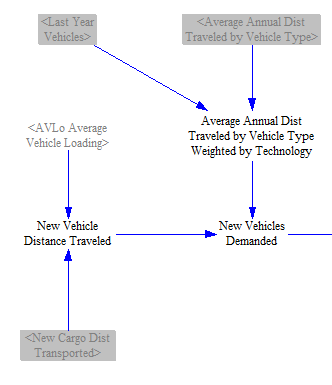
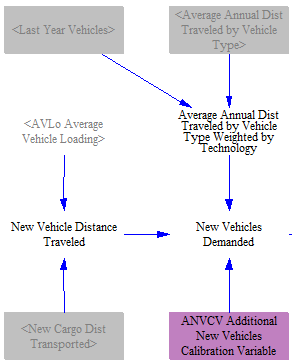
transport-main docs after review of claude edits

diff --git a/docs/transportation-sector-main.md b/docs/transportation-sector-main.md
@@ -57,12 +57,11 @@ We also calculate how policy-driven changes in the cost of transportation servic
 
 The model structure for the fuel cost per unit cargo distance in the policy scenario is shown in the screenshot below. The calculation for the BAU scenario mirrows this same structure, but using BAU versions of each variable. In both sets of calculations, we institute a one-year time delay to avoid circularity. For this reason, we need to read in input data for fuel economy of each vehicle type and technology in the start year (defined as one year before the first simulated year in the model). We then combine last year's transportation sector fuel used with the cost of transportation fuels used by each technology to determine a weighted average fuel cost per unit energy by vehicle technology. We then divide that quantity by the fleet average fuel economy of each vehicle type and technology to determine the fuel cost per unit cargo distance.
 
-For non-electricity transportation fuels, the fuel cost per unit energy is the same regardless of which type of vehicle uses it. Electricity is a special case: the price an EV owner effectively pays per unit of energy depends on whether they charge at a private (home or depot) charger or at a public charger, and public charging is generally more expensive per unit energy than private charging. The model therefore tracks an electricity fuel cost per unit energy by vehicle and cargo type, blending the underlying electricity price with a public-versus-private charging mix and a 'Ratio of Public Charging Costs to Private Charging Costs' input. The private-charging share is set to one for vehicle types with dedicated depot charging (transit buses, freight rail, etc.); for passenger LDVs it is determined endogenously from a lookup against the BEV share of the existing passenger LDV fleet (sourced from a study of home charging access in the United States), so that as more EV households charge at home or in apartment garages the effective electricity price drifts toward the lower private rate.
-
 ![fuel cost per unit cargo distance](/img/transportation-sector-main-FuelCostPerCargoDist.png)
 
-<!-- TODO: verify framing of the BEV-share → effective electricity price feedback. Because the public/private charging mix for passenger LDVs is determined by the previous year's BEV stock share, growth in BEVs lowers the effective electricity price faced by the next round of buyers, which in turn (via lower fuel cost per unit cargo distance) feeds back into the vehicle choice function. Confirm this characterization is consistent with the intended model behavior. -->
+For non-electricity transportation fuels, the fuel cost per unit energy is the same regardless of which type of vehicle uses it. Electricity is a special case: the price an EV owner effectively pays per unit of energy depends on whether they charge at a private (home or depot) charger or at a public charger, and public charging is generally more expensive per unit energy than private charging. The model therefore tracks an electricity fuel cost per unit energy by vehicle and cargo type, blending the underlying electricity price with a public-versus-private charging mix and a 'Ratio of Public Charging Costs to Private Charging Costs' input. The private-charging share is set to one for vehicle types with dedicated depot charging (transit buses, freight rail, etc.); for passenger LDVs it is determined endogenously from a lookup against the BEV share of the existing passenger LDV fleet (sourced from a study of home charging access in the United States), so that as more EV households charge at home or in apartment garages the effective electricity price drifts toward the lower private rate.
 
+![EV public/private charging ratio](/img/transportation-sector-main-PublicPrivateCharging.png)
 
 We compare this figure with its corresponding BAU variable to determine the percentage change in fuel cost per unit cargo-distance that is attributable to the policies. Thus, policies that increase fuel cost will tend to make transporting cargo-distance more expensive, and policies that improve fuel economy will tend to make it less expensive. Literature on fuel economy improvements often discusses a "rebound effect," referring to the tendency to increase driving in response to the fuel savings that come from increased fuel efficiency. However, if increased fuel price is a driver of the increase in fuel economy, the "rebound" could be positive or negative, depending on whether the increased cost outweighs the increased efficiency, or vice versa. The 'Elasticity of Demand for Vehicle Use wrt Fuel Cost' is multiplied by the percentage change in fuel cost per unit cargo-distance to determine whether usage is increased or decreased, and by how much, for each vehicle type. We apply these changes to the the cargo distance after TDM effects to find the cargo distance transported in the policy case:
 
@@ -112,7 +111,7 @@ All R&D policies are defined as being additional to any R&D required to comply w
 
 ## Calculating NPV of Lifetime Vehicle Cost
 
-In order to decide which vehicle technologies will be selected by purchasers to fill the need for new cargo-distance from a given vehicle type in the current year, the model needs to know the price of each vehicle technology as seen by purchasers.  There are three components to this price: the upfront cost of the vehicle, the lifetime operation and maintenance costs (including fuel) for the vehicle (appropriately discounted), and a set of shadow costs applied to electric passenger light-duty vehicles to represent perceived non-monetary barriers (range anxiety, charging-station availability, and broader consumer preference factors).  This section of the model calculates these costs.
+In order to decide which vehicle technologies will be selected by purchasers to fill the need for new cargo-distance from a given vehicle type in the current year, the model needs to know the price of each vehicle technology as seen by purchasers.  There are three components to this price: the upfront cost of the vehicle; the discounted lifetime cost of operating, maintaining, and -- for passenger-LDV battery electric vehicles (BEVs) -- installing home charging equipment for the vehicle; and a set of shadow costs applied to electric passenger light-duty vehicles to represent perceived non-monetary barriers (range anxiety, charging-station availability, and broader consumer preference factors).  This section of the model calculates these costs and combines them into a single NPV of Lifetime Vehicle Cost, which is then converted to a per-mile cost for use in the vehicle choice function.
 
 ### NPV of Lifetime Annual Expenditures
 
@@ -126,14 +125,11 @@ Next, we convert this to fuel cost per unit vehicle-distance (for example, vehic
 
 We then add in annual expected vehicle maintenance, insurance, parking, and licensing, registration, and property tax costs. Vehicle maintenance costs are differentiated by vehicle type and technology (as the cost to maintain an electric vs. a gasoline car, for example, can vary significantly), and other costs are differentiated by vehicle type only. These values are all read in as input data.
 
-Finally, we convert this stream of expected fuel and other operation and maintenance expenditures over the vehicle's lifetime into a net present value (NPV) value, using an average vehicle ownership period and a discount rate adopted by vehicle buyers.  We use an ownership period rather than vehicle lifetime as some vehicle types, for example freight trucks, are typically retained by the original buyer for a period much shorter than the vehicle's lifetime.  A high discount rate is generally appropriate here, as vehicle buyers tend to undervalue future fuel savings (or costs) in their calculus of what vehicle to buy today.  This is one of three factors that contributes to the NPV of Lifetime Vehicle Cost:
+For passenger light-duty BEVs, we also add a one-time charging-equipment installation cost. Most EV buyers who do not already have a Level 2 home charger purchase and install one. The model multiplies a per-installation cost by the share of new passenger LDV EV purchases requiring an installation. That share is set to one minus the BEV share of the existing passenger LDV fleet, on the assumption that BEV buyers in households that already include a BEV typically already have a working home charger. The resulting installation cost adds to the NPV of Lifetime Annual Expenditures only for passenger LDV BEVs and is zero for all other vehicle/cargo/technology combinations.
+
+Finally, we convert this stream of expected fuel and other expenditures over the vehicle's lifetime into a net present value (NPV) value, using an average vehicle ownership period and a discount rate adopted by vehicle buyers.  We use an ownership period rather than vehicle lifetime as some vehicle types, for example freight trucks, are typically retained by the original buyer for a period much shorter than the vehicle's lifetime.  A high discount rate is generally appropriate here, as vehicle buyers tend to undervalue future fuel savings (or costs) in their calculus of what vehicle to buy today.  This is one of three factors that contributes to the NPV of Lifetime Vehicle Cost:
 
 ![net present value of fuel costs over vehicle lifetime](/img/transportation-sector-main-NPVFuelCost.png)
-
-For passenger light-duty battery electric vehicles, we also add a one-time charging-equipment installation cost. New EV buyers who do not already have a home charger generally need to purchase and install one. The model multiplies a per-installation cost (the 'EV Charger Installation Costs' input, sourced from a study on the levelized cost of charging electric vehicles in the United States) by the share of new passenger LDV EV purchases requiring an installation. That share is set to one minus the BEV share of the existing passenger LDV fleet, on the assumption that BEV buyers in households that already include a BEV typically already have a working home charger. The resulting installation cost adds to the NPV of Lifetime Annual Expenditures only for passenger LDV BEVs and is zero for all other vehicle/cargo/technology combinations.
-
-<!-- TODO: SCREENSHOT NEEDED: View "Transportation - Main" in EPS.mdl, showing the new structure that calculates Added Cost for Passenger LDV EV EVSE Equipment from EVCIC EV Charger Installation Costs and the Share of New Passenger LDV EV Purchases Requiring Home Charger Installations, and feeds into the NPV of Lifetime Annual Expenditures. Suggested filename: transportation-sector-main-EVSECost_4.0.5.png -->
-
 
 ### New Vehicle Price
 
@@ -146,8 +142,6 @@ Subsequently, the model takes into account any subsidies for vehicle batteries. 
 ![battery production subsidy](/img/transportation-sector-main-EndogenousEVLearning.png)
 
 Next, the post-subsidy battery manufacturing price is converted to a retail-price-equivalent (RPE) basis by multiplying by a 'Battery Pack Markup' factor. This markup follows NREL ATB methodology, applying a retail price equivalent factor of 1.5 for light-duty vehicles and 1.2 for medium- and heavy-duty vehicles to estimate retail prices from manufacturing costs.
-
-<!-- TODO: screenshot may need replacement — view shown is from 4.0.4 and does not depict the Battery Pack Markup multiplier added in 4.0.5. -->
 
 Lastly, the marked-up battery cost is converted from $/kWh to $/vehicle by multiplying by the battery capacity of each vehicle type, then added to the non-battery portion of new vehicle price. (reminder: for non-battery-equipped vehicles, this input variable is the full cost of the vehicle)
 
@@ -173,25 +167,30 @@ The third component of the NPV of Lifetime Vehicle Cost is a set of shadow costs
 * **Charging availability shadow cost.** Reflects the relative scarcity of EV chargers compared to gas stations. Calculated as a logarithmic function of the ratio of the projected number of EV chargers to the number of gas pumps; falls toward zero as charger deployment approaches parity with gas pump deployment. Affected by the EV Charger Deployment policy lever.
 * **Consumer preference shadow cost.** Reflects broader non-monetary preference factors beyond range and charger availability — for example, perceptions of unfamiliar technology and concerns about resale value. Calibrated against historical light-duty vehicle sales data (see [Forsythe et al., PNAS 2023](https://www.pnas.org/doi/10.1073/pnas.2219396120) and the U.S. Energy Information Administration Annual Energy Outlook). The shadow cost decays as the BEV share of the existing passenger LDV fleet grows: it is multiplied by `1 − BEV share of last year's passenger LDV fleet`, on the assumption that as more BEVs reach the road, the perception barriers represented by this shadow cost diminish.
 
-Finally, the three shadow costs are summed with the new vehicle price (and the NPV of Lifetime Annual Expenditures, which already includes the EVSE installation cost described above) to produce the NPV of Lifetime Vehicle Cost variable used in the vehicle choice function:
+The three shadow costs are summed with the new vehicle price and the NPV of Lifetime Annual Expenditures (the latter already including the EVSE installation cost described above) to produce the NPV of Lifetime Vehicle Cost variable:
 
-<!-- TODO: screenshot may need replacement — view shown is from 4.0.4 and shows only Range Anxiety + Charging Availability shadow costs. The 4.0.5 view also includes Consumer Preference Shadow Cost (BCPSC) driven by last year's BEV stock share. -->
 ![effect of range anxiety, charging availability, and consumer preference shadow costs on perceived vehicle price](/img/transportation-sector-main-RngAnxiety.png)
+
+### New Vehicle Cost per Mile
+
+The vehicle choice function described in the next section compares technologies in cost-per-mile units rather than in total NPV terms, so that vehicles with different annual usage patterns and different ownership periods can be compared on a like-for-like basis. We compute the New Vehicle Cost per Mile by dividing the NPV of Lifetime Vehicle Cost by the product of the average annual distance traveled, vehicle loading, and ownership period for each vehicle type, cargo type, and technology. This per-mile metric is used internally by the vehicle choice function; it is not exposed in cash flow tracking or in outputs outside the transportation sector.
 
 ## Calculating Number of New Vehicles
 
-Now that we know the NPV of Lifetime Vehicle Cost for each vehicle technology, we have the information we need to determine both the number of new vehicles and what technologies will be selected. We begin by converting new cargo-distance transported to new vehicles demanded, using vehicle loading and annual average distance traveled by vehicle type (which were also used earlier, to find annual fuel use per vehicle). In some regions, changing economics and political factors cause the resulting historical-year sales to drift from observed values, so we apply an additive calibration adjustment, the 'Additional New Vehicles Calibration Variable,' to the new vehicles demanded by vehicle and cargo type. By construction the calibration values across the historical time series sum to zero for each vehicle/cargo combination, so the adjustment shifts sales between years rather than changing the cumulative number of vehicles introduced.
+Now that we know the New Vehicle Cost per Mile for each vehicle technology, we have the information we need to determine both the number of new vehicles and what technologies will be selected.
 
-<!-- TODO: screenshot may need replacement — view shown is from 4.0.4 and does not depict the new ANVCV calibration adjustment in the New Vehicles Demanded equation -->
+We begin by converting new cargo-distance transported to new vehicles demanded, using vehicle loading and annual average distance traveled by vehicle type (which were both used earlier to find annual fuel use per vehicle).
+
+In some regions, changing economics and political factors cause the resulting historical-year sales to drift from observed values. We therefore include an optional, additive calibration adjustment, the 'Additional New Vehicles Calibration Variable,' to the new vehicles demanded by vehicle and cargo type. By construction, the calibration values across the historical time series sum to zero for each vehicle/cargo combination, so the adjustment shifts sales between years rather than changing the cumulative number of vehicles introduced.
+
 ![new vehicles demanded](/img/transportation-sector-main-NewVehDemanded.png)
 
 To determine what technologies of vehicle purchasers will buy (e.g. how many of the new passenger LDVs will be battery electric, how many will use a gasoline engine, etc.), we must allocate the demand by technology. We therefore need to implement a vehicle choice function, which we want to base on cost. However, we don't want to simply allocate all new vehicle demand to the cheapest option. While we track average vehicle costs in the model, in reality each vehicle technology spans a range of costs. The image below represents a simplified example of prices for gasoline engine and battery electric vehicles, where each technology has its own normal distribution with an unique midpoint on the cost axis (X-axis). The Y-axis is the quantity of vehicles of a given technology that can be sold in this year at a given cost. The volume inside these curves corresponds to a quantity of vehicles sold: cost (X) multiplied by quantity per unit cost (Y). We know the total amount of vehicles we need to sell, which is the volume under a portion of the black “Total” curve. Accordingly, demand is satisfied from left to right on the cost axis, filling in the volume under each individual vehicle technology's bell curve, until a total amount of volume has been filled in equal to the quantity of new vehicles needed this year. If this point is reached anywhere between the “3” and “6” numbers on the cost axis in the example diagram above, then a non-trivial number of gasoline engine vehicles and a non-trivial number of battery electric vehicles will be sold, and neither gasoline engine vehicles nor battery electric vehicles will be sold at the maximum possible rate this year.
 
 ![example vehicle choice logic](/img/transportation-sector-main-CurvesAllocation.png)
 
-We take a similar approach in the EPS by implementing what is known as a logit choice function. The logit function behavior is controlled by two components. The first is a logit exponent, which determines purchasers' sensitivity to cost. The second is the technology shareweights, which can be calibrated based on historical sales. These shareweights capture non-cost factors such as consumer preferences, barriers to market entry, etc. The exponent and shareweight selections will determine the shapes and distributions of the curves for each vehicle technology. The cost input to the logit is the 'New Vehicle Cost per Mile,' which is the NPV of Lifetime Vehicle Cost (calculated above) divided by the average annual distance traveled, vehicle loading, and ownership period. Working in cost-per-mile units allows technologies with different annual usage patterns and ownership periods to be compared on a like-for-like basis. The following screenshot shows how this structure is implemented in the EPS:
+We take a similar approach in the EPS by implementing what is known as a logit choice function. Its cost input is the New Vehicle Cost per Mile derived in the previous section. The function's behavior is controlled by two components. The first is a logit exponent, which determines purchasers' sensitivity to cost. The second is the technology shareweights, which can be calibrated based on historical sales. These shareweights capture non-cost factors such as consumer preferences, barriers to market entry, etc. The exponent and shareweight selections will determine the shapes and distributions of the curves for each vehicle technology. The following screenshot shows how this structure is implemented in the EPS:
 
-<!-- TODO: screenshot may need replacement — view shown is from 4.0.4 and references NPV of Lifetime Vehicle Cost directly. In 4.0.5 the logit consumes 'New Vehicle Cost per Mile' instead. -->
 ![allocation by vehicle technology](/img/transportation-sector-main-VehTechAllocation.png)
 
 After the cost-based vehicle allocation, we check to see if the share of zero-emission vehicles (ZEVs) meets the minimum required ZEV sales percentage in each subregion, which can be modified by two policy levers. Up to 60 subregions can be defined; in the U.S. model there are 51 regions, representing the states and the District of Columbia.  The first lever allows the user to define non-BAU ZEV sales requirements for each subregion -- in the U.S. representing changes to the Advanced Clean Cars and Trucks rules of California and follower states.  The second policy lever allows the user to define alternative, region-wide minimum sales shares -- in the U.S.  this would represent changes to the Environmental Protection Agency's tailpipe standards for new vehicles. 
@@ -256,7 +255,7 @@ Next, we calculate the required increase in CFE by comparing the amount of CFE p
 
 ![required increase in CFE](/img/transportation-sector-main-ReqdCFEInc.png)
 
-Next, we need to determine the quantity by which CFE may be increased from shifting to each eligible fuel for each vehicle type and vehicle technology. To do this, we begin by taking in (as input data) the maximum percentage of each fuel that is usable by each vehicle technology. The model provides this input as separate BAU and non-BAU CSV files for every supported vehicle/cargo/technology combination, with values calibrated against the U.S. Department of Energy's Alternative Fuels Data Center. A policy lever ('Use Non BAU Max Fuel Consumption by Veh Type') allows users to apply the non-BAU set of maximums in policy scenarios, which is useful when modeling regulatory or market changes that expand the share of biofuels, hydrogen, or electricity that a given vehicle technology can accept. We convert this to percentage points of fuel increase relative to the BAU percentages, then we apply the same three filters or conversions applied to the fuel that would have been used in the absence of an LCFS. That is, we filter out non-regulated vehicle types, adjust for electricity efficiency, and convert to CFE. We then use this quantity to divide, proportionally, the required increase in CFE by vehicle type and by fuel. (We make a small adjustment to correct for the fact that plug-in hybrids could shift their petroleum fuel consumption to either electricity or biofuels, to avoid exceeding the total quantity of energy that may be shifted.)
+Next, we need to determine the quantity by which CFE may be increased from shifting to each eligible fuel for each vehicle type and vehicle technology. To do this, we begin by taking in (as input data) the maximum percentage of each fuel that is usable by each vehicle technology. The model provides this input as separate BAU and non-BAU CSV files for every supported vehicle/cargo/technology combination. A policy lever ('Use Non BAU Max Fuel Consumption by Veh Type') allows users to apply the non-BAU set of maximums in policy scenarios, which is useful when modeling regulatory or market changes that expand the share of biofuels, hydrogen, or electricity that a given vehicle technology can accept. We convert this to percentage points of fuel increase relative to the BAU percentages, then we apply the same three filters or conversions applied to the fuel that would have been used in the absence of an LCFS. That is, we filter out non-regulated vehicle types, adjust for electricity efficiency, and convert to CFE. We then use this quantity to divide, proportionally, the required increase in CFE by vehicle type and by fuel. (We make a small adjustment to correct for the fact that plug-in hybrids could shift their petroleum fuel consumption to either electricity or biofuels, to avoid exceeding the total quantity of energy that may be shifted.)
 
 ![assigning CFE increases by vehicle type and by fuel](/img/transportation-sector-main-AssigningCFEByVehByFuel.png)
 
